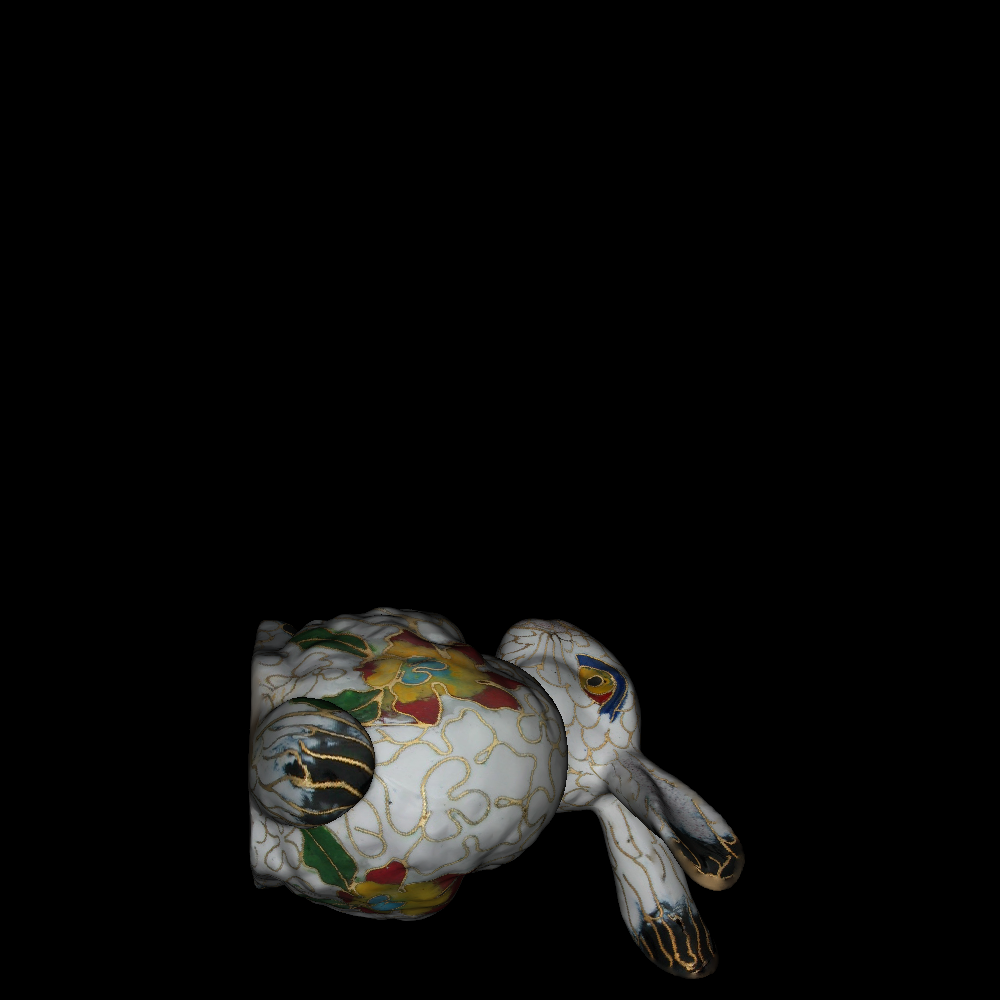
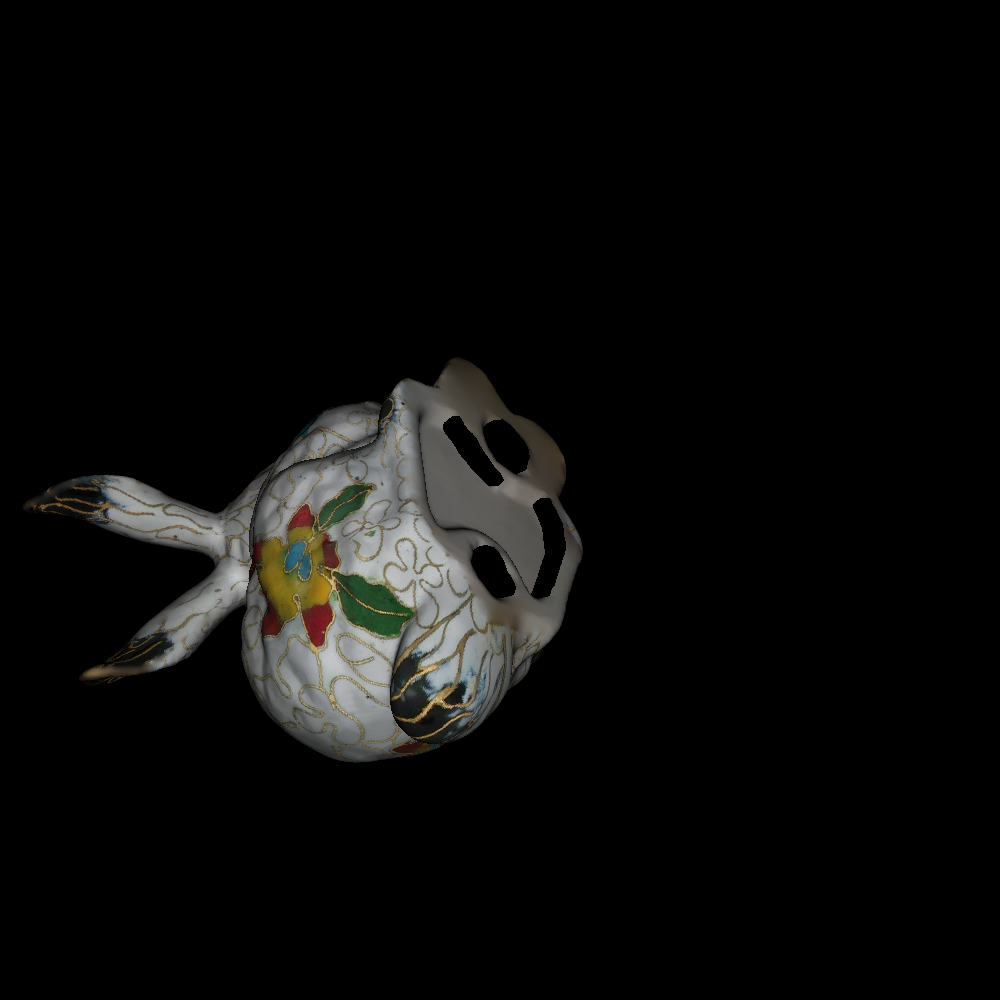
FINAL

Changed region(s): [[0.031, 0.341, 0.744, 0.992]]

diff --git a/LAB4/main.py b/LAB4/main.py
@@ -4,12 +4,13 @@ from obj_parser import obj_parser
 from config_parser import config_parser
 from save_image import save_image
 from draw_image import draw_triangle
-from math import *
-from quaternion_operations import *
+
+from quaternion_operations import q_from_axis_angle, rotate_vector_quaternion
 from PIL import Image, ImageOps
 from typing import Dict
 
 IMAGE_SIZE = (1000, 1000)
+
 
 # Функция для построения матрицы поворота по Эйлеру
 def build_rotation_matrix(a: float, b: float, g: float) -> np.ndarray:
@@ -26,28 +27,33 @@ def build_rotation_matrix(a: float, b: float, g: float) -> np.ndarray:
 
 
 # Функция для вычисления нормалей вершин на основе данных модели
-def calculate_vertex_normals(
-  data: Dict[str, list], rotate_code
-) -> np.ndarray:
+def calculate_vertex_normals(data: Dict[str, list], rotate_code) -> np.ndarray:
     vn = np.zeros((len(data["v"]), 3), dtype=np.float32)
 
-  quaternions = np.tile(np.array([1, 0, 0, 0]), (len(data["v"]), 1))
+    quaternions = np.tile(np.array([1, 0, 0, 0]), (len(data["v"]), 1))
 
-  if rotate_code != 0:
-    q_rot = q_from_axis_angle(RENDER_CONFIG["axis_for_quater"], RENDER_CONFIG["rotation_angle_for_quater"])
-    quaternions = np.tile(q_rot, (len(data["v"]), 1))
+    if rotate_code != 0:
+        q_rot = q_from_axis_angle(
+            RENDER_CONFIG["axis_for_quater"], RENDER_CONFIG["rotation_angle_for_quater"]
+        )
+        quaternions = np.tile(q_rot, (len(data["v"]), 1))
 
-  for face in data["f"]:
-    v_indices = [vi[0] - 1 for vi in face]
-    vertices = np.array([data["v"][i] for i in v_indices])
+    for face in data["f"]:
+        v_indices = [vi[0] - 1 for vi in face]
+        vertices = np.array([data["v"][i] for i in v_indices])
 
-    if rotate_code == 0:
-      rotated_vertices = np.dot(vertices, rotation_matrix)
-    else:
-      rotated_vertices = np.array([
-        rotate_vector_quaternion(quaternions[i], v)
-        for i, v in zip(v_indices, vertices)
-      ]) + RENDER_CONFIG["translation_offset"]
+        if rotate_code == 0:
+            rotated_vertices = np.dot(vertices, rotation_matrix)
+        else:
+            rotated_vertices = (
+                np.array(
+                    [
+                        rotate_vector_quaternion(quaternions[i], v)
+                        for i, v in zip(v_indices, vertices)
+                    ]
+                )
+                + RENDER_CONFIG["translation_offset"]
+            )
 
         edge1 = rotated_vertices[1] - rotated_vertices[0]
         edge2 = rotated_vertices[2] - rotated_vertices[0]
@@ -56,8 +62,8 @@ def calculate_vertex_normals(
         for i in v_indices:
             vn[i] += face_normal
 
-  norms = np.linalg.norm(vn, axis=1)
-  return vn / norms[:, np.newaxis], quaternions
+    norms = np.linalg.norm(vn, axis=1)
+    return vn / norms[:, np.newaxis], quaternions
 
 
 # Функция для загрузки текстуры из файла
@@ -73,47 +79,54 @@ def load_texture(filepath):
 
 
 # Функция для построения модели и рендера изображения
-def build_model(data: Dict[str, list], matrix, z_buff, textures, rotate_code) -> np.ndarray:
-  # Вычисление нормалей вершин
-  vn, quaternions = calculate_vertex_normals(data, rotate_code)
-  # Scale
-  scale = RENDER_CONFIG["scale"]
+def build_model(
+    data: Dict[str, list], matrix, z_buff, textures, rotate_code
+) -> np.ndarray:
+    # Вычисление нормалей вершин
+    vn, quaternions = calculate_vertex_normals(data, rotate_code)
+    # Scale
+    scale = RENDER_CONFIG["scale"]
 
-  # Обработка каждой грани модели
-  for face in data["f"]:
-    # Индексы вершин грани
-    v_indices = [vi[0] - 1 for vi in face]
-    # Координаты вершин
-    vertices = np.array([data["v"][i] for i in v_indices])
+    # Обработка каждой грани модели
+    for face in data["f"]:
+        # Индексы вершин грани
+        v_indices = [vi[0] - 1 for vi in face]
+        # Координаты вершин
+        vertices = np.array([data["v"][i] for i in v_indices])
 
-    if rotate_code == 0:
-      # Поворот и смещение вершин
-      rotated_vertices = (
-              np.dot(vertices, rotation_matrix) + RENDER_CONFIG["translation_offset"]
-      )
-    else:
-      rotated_vertices = np.array([
-        rotate_vector_quaternion(quaternions[i], v)
-        for i, v in zip(v_indices, vertices)
-      ]) + RENDER_CONFIG["translation_offset"]
+        if rotate_code == 0:
+            # Поворот и смещение вершин
+            rotated_vertices = (
+                np.dot(vertices, rotation_matrix) + RENDER_CONFIG["translation_offset"]
+            )
+        else:
+            rotated_vertices = (
+                np.array(
+                    [
+                        rotate_vector_quaternion(quaternions[i], v)
+                        for i, v in zip(v_indices, vertices)
+                    ]
+                )
+                + RENDER_CONFIG["translation_offset"]
+            )
 
-    # Текстурные координаты
-    tex_coords = [data["vt"][vi[1] - 1] for vi in face]
+        # Текстурные координаты
+        tex_coords = [data["vt"][vi[1] - 1] for vi in face]
 
-    # Отрисовка треугольника
-    draw_triangle(
-      *rotated_vertices.reshape(-1),
-      vn[v_indices],
-      tex_coords,
-      textures,
-      matrix,
-      z_buff,
-      scale,
-      H,
-      W,
-    )
+        # Отрисовка треугольника
+        draw_triangle(
+            *rotated_vertices.reshape(-1),
+            vn[v_indices],
+            tex_coords,
+            textures,
+            matrix,
+            z_buff,
+            scale,
+            H,
+            W,
+        )
 
-  return matrix
+    return matrix
 
 
 if __name__ == "__main__":
@@ -124,46 +137,50 @@ if __name__ == "__main__":
     matrix = np.full((H, W, 3), (0, 0, 0), dtype=np.uint8)
     z_buff = np.full((H, W), np.inf)
 
-  print("F10 - обработка с поворотом по Эйлеру\n"
+    print(
+        "F10 - обработка с поворотом по Эйлеру\n"
         "F11 - обработка с поворотом по кватернионам\n"
-        "F12 - сохранение изображния\n")
+        "F12 - сохранение изображния\n"
+    )
 
-  while True:
-    if keyboard.is_pressed('F10'):
-      print("Обработка модели начата!")
+    while True:
+        if keyboard.is_pressed("F10"):
+            print("Обработка модели начата!")
             RENDER_CONFIG = config_parser("../data/config.txt")
 
             # Загрузка текстуры
             textures = load_texture(RENDER_CONFIG["texture_path"])
 
-      # Построение матрицы поворота
-      rotation_matrix = build_rotation_matrix(*RENDER_CONFIG["rotation_angles_for_eiler"])
+            # Построение матрицы поворота
+            rotation_matrix = build_rotation_matrix(
+                *RENDER_CONFIG["rotation_angles_for_eiler"]
+            )
 
             # Парсинг модели
             data = obj_parser(RENDER_CONFIG["input_path"])
 
-      image_matrix = build_model(data, matrix, z_buff, textures, 0)
+            image_matrix = build_model(data, matrix, z_buff, textures, 0)
 
             print("Изменения модели сохранены!")
 
-    if keyboard.is_pressed('F11'):
-      print("Обработка модели начата!")
+        if keyboard.is_pressed("F11"):
+            print("Обработка модели начата!")
 
-      RENDER_CONFIG = config_parser("../data/config.txt")
+            RENDER_CONFIG = config_parser("../data/config.txt")
 
-      # Загрузка текстуры
-      textures = load_texture(RENDER_CONFIG["texture_path"])
+            # Загрузка текстуры
+            textures = load_texture(RENDER_CONFIG["texture_path"])
 
-      # Парсинг модели
-      data = obj_parser(RENDER_CONFIG["input_path"])
+            # Парсинг модели
+            data = obj_parser(RENDER_CONFIG["input_path"])
 
-      # Построение модели
-      image_matrix = build_model(data, matrix, z_buff, textures, 1)
+            # Построение модели
+            image_matrix = build_model(data, matrix, z_buff, textures, 1)
 
-      print("Изменения модели сохранены!")
+            print("Изменения модели сохранены!")
 
-    if keyboard.is_pressed('F12'):
-      # Сохранение изображения
-      save_image(image_matrix, RENDER_CONFIG["output_path"])
-      print("Модель сохранена в виде изображения!")
-      break
+        if keyboard.is_pressed("F12"):
+            # Сохранение изображения
+            save_image(image_matrix, RENDER_CONFIG["output_path"])
+            print("Модель сохранена в виде изображения!")
+            break
